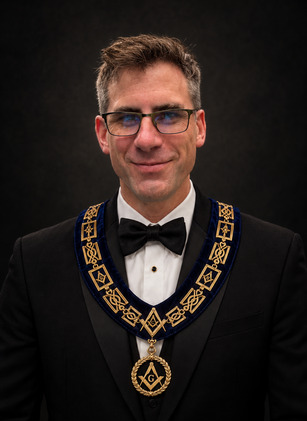
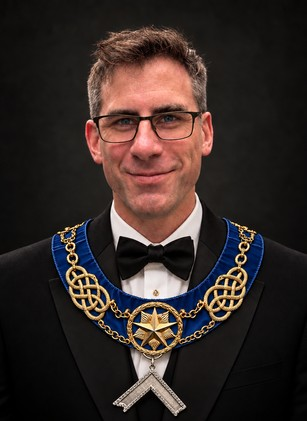
Add and replace 2025–26 officer portraits (#3)
* Add Bro. Greg Forsyth's official Junior Warden portrait.

Crop the portrait to the 307×421 officer-card size with the face and collar centered, and replace his Portrait placeholders with the same image markup as the neighbouring cards.

* Add Bro. Duncan Rogers's official Steward portrait.

Crop the portrait to the 307×421 officer-card size with the face and collar centered, and replace his Portrait placeholder with the same image markup as the neighbouring cards.

* Add Bro. James Hamilton's official Senior Deacon portrait.

Crop the portrait to the 307×421 officer-card size with the face and collar centered, and replace his Portrait placeholder with the same image markup as the neighbouring cards.

* Add Bro. Donovan Hastie's official Chaplain portrait.

Crop the portrait to the 307×421 officer-card size with the face and collar centered, and replace his Portrait placeholder with the same image markup as the neighbouring cards.

* Add Bro. Alan Gschwind's official Inner Guard portrait.

Crop the portrait to the 307×421 officer-card size with the face and collar centered, and replace his Portrait placeholder with the same image markup as the neighbouring cards.

* Replace W. Bro. Andrew Valley's portrait with his official photo.

Crop the new portrait to the existing 307×421 officer-card size so the face and collar stay centered, and save it as a web-sized JPEG under the same filename.

* Add Bro. Braden Rogers's portrait and replace Bro. Peter Schmidt's.
[…]

Changed region(s): [[0.0, 0.0618, 0.8795, 0.9881], [0.9381, 0.5867, 1.0, 0.6176]]

diff --git a/officers.html b/officers.html
@@ -153,8 +153,8 @@
       <h3>Bro. Peter Schmidt</h3>
       <p>Senior Warden</p>
     </article>
-    <article class="home-officer-card placeholder-card">
-      <div class="officer-placeholder">Portrait</div>
+    <article class="home-officer-card">
+      <img src="https://ryancolclough.github.io/stjohn63/assets/greg-forsyth.jpg" alt="Bro. Greg Forsyth">
       <h3>Bro. Greg Forsyth</h3>
       <p>Junior Warden</p>
     </article>
@@ -168,28 +168,28 @@
       <h3>W. Bro. Andrew Valley</h3>
       <p>Secretary</p>
     </article>
-    <article class="home-officer-card placeholder-card">
-      <div class="officer-placeholder">Portrait</div>
+    <article class="home-officer-card">
+      <img src="https://ryancolclough.github.io/stjohn63/assets/donovan-hastie.jpg" alt="Bro. Donovan Hastie">
       <h3>Bro. Donovan Hastie</h3>
       <p>Chaplain</p>
     </article>
-    <article class="home-officer-card placeholder-card">
-      <div class="officer-placeholder">Portrait</div>
+    <article class="home-officer-card">
+      <img src="https://ryancolclough.github.io/stjohn63/assets/james-hamilton.jpg" alt="Bro. James Hamilton">
       <h3>Bro. James Hamilton</h3>
       <p>Senior Deacon</p>
     </article>
-    <article class="home-officer-card placeholder-card">
-      <div class="officer-placeholder">Portrait</div>
+    <article class="home-officer-card">
+      <img src="https://ryancolclough.github.io/stjohn63/assets/frank-horan.jpg" alt="Bro. Frank Horan">
       <h3>Bro. Frank Horan</h3>
       <p>Junior Deacon</p>
     </article>
-    <article class="home-officer-card placeholder-card">
-      <div class="officer-placeholder">Portrait</div>
+    <article class="home-officer-card">
+      <img src="https://ryancolclough.github.io/stjohn63/assets/steve-kipp.jpg" alt="Bro. Steve Kipp">
       <h3>Bro. Steve Kipp</h3>
       <p>Director of Ceremonies</p>
     </article>
-    <article class="home-officer-card placeholder-card">
-      <div class="officer-placeholder">Portrait</div>
+    <article class="home-officer-card">
+      <img src="https://ryancolclough.github.io/stjohn63/assets/alan-gschwind.jpg" alt="Bro. Alan Gschwind">
       <h3>Bro. Alan Gschwind</h3>
       <p>Inner Guard</p>
     </article>
@@ -198,19 +198,19 @@
       <h3>Bro. Phil Tanner</h3>
       <p>Tyler</p>
     </article>
-    <article class="home-officer-card placeholder-card">
-      <div class="officer-placeholder">Portrait</div>
+    <article class="home-officer-card">
+      <img src="https://ryancolclough.github.io/stjohn63/assets/braden-rogers.jpg" alt="Bro. Braden Rogers">
       <h3>Bro. Braden Rogers</h3>
       <p>Stewards</p>
     </article>
-    <article class="home-officer-card placeholder-card">
-      <div class="officer-placeholder">Portrait</div>
+    <article class="home-officer-card">
+      <img src="https://ryancolclough.github.io/stjohn63/assets/duncan-rogers.jpg" alt="Bro. Duncan Rogers">
       <h3>Bro. Duncan Rogers</h3>
       <p>Stewards</p>
     </article>
-    <article class="home-officer-card placeholder-card">
-      <div class="officer-placeholder">Portrait</div>
-      <h3>Ryan Colclough</h3>
+    <article class="home-officer-card">
+      <img src="https://ryancolclough.github.io/stjohn63/assets/ryan-colclough.jpg" alt="Bro. Ryan Colclough">
+      <h3>Bro. Ryan Colclough</h3>
       <p>Web Developer</p>
     </article>
   </div>

diff --git a/index-replacement.html b/index-replacement.html
@@ -518,7 +518,13 @@ function toggleAudio() {
 
       <article>
 
-        <div class="officer-placeholder">Portrait</div>
+        <img
+
+          src="assets/greg-forsyth.jpg"
+
+          alt="Bro. Greg Forsyth"
+
+        >
 
         <h3>
 

diff --git a/index.html b/index.html
@@ -518,7 +518,13 @@ function toggleAudio() {
 
       <article>
 
-        <div class="officer-placeholder">Portrait</div>
+        <img
+
+          src="assets/greg-forsyth.jpg"
+
+          alt="Bro. Greg Forsyth"
+
+        >
 
         <h3>
 

diff --git a/tester.html b/tester.html
@@ -437,7 +437,13 @@
 
       <article>
 
-        <div class="officer-placeholder">Portrait</div>
+        <img
+
+          src="assets/greg-forsyth.jpg"
+
+          alt="Bro. Greg Forsyth"
+
+        >
 
         <h3>
 
